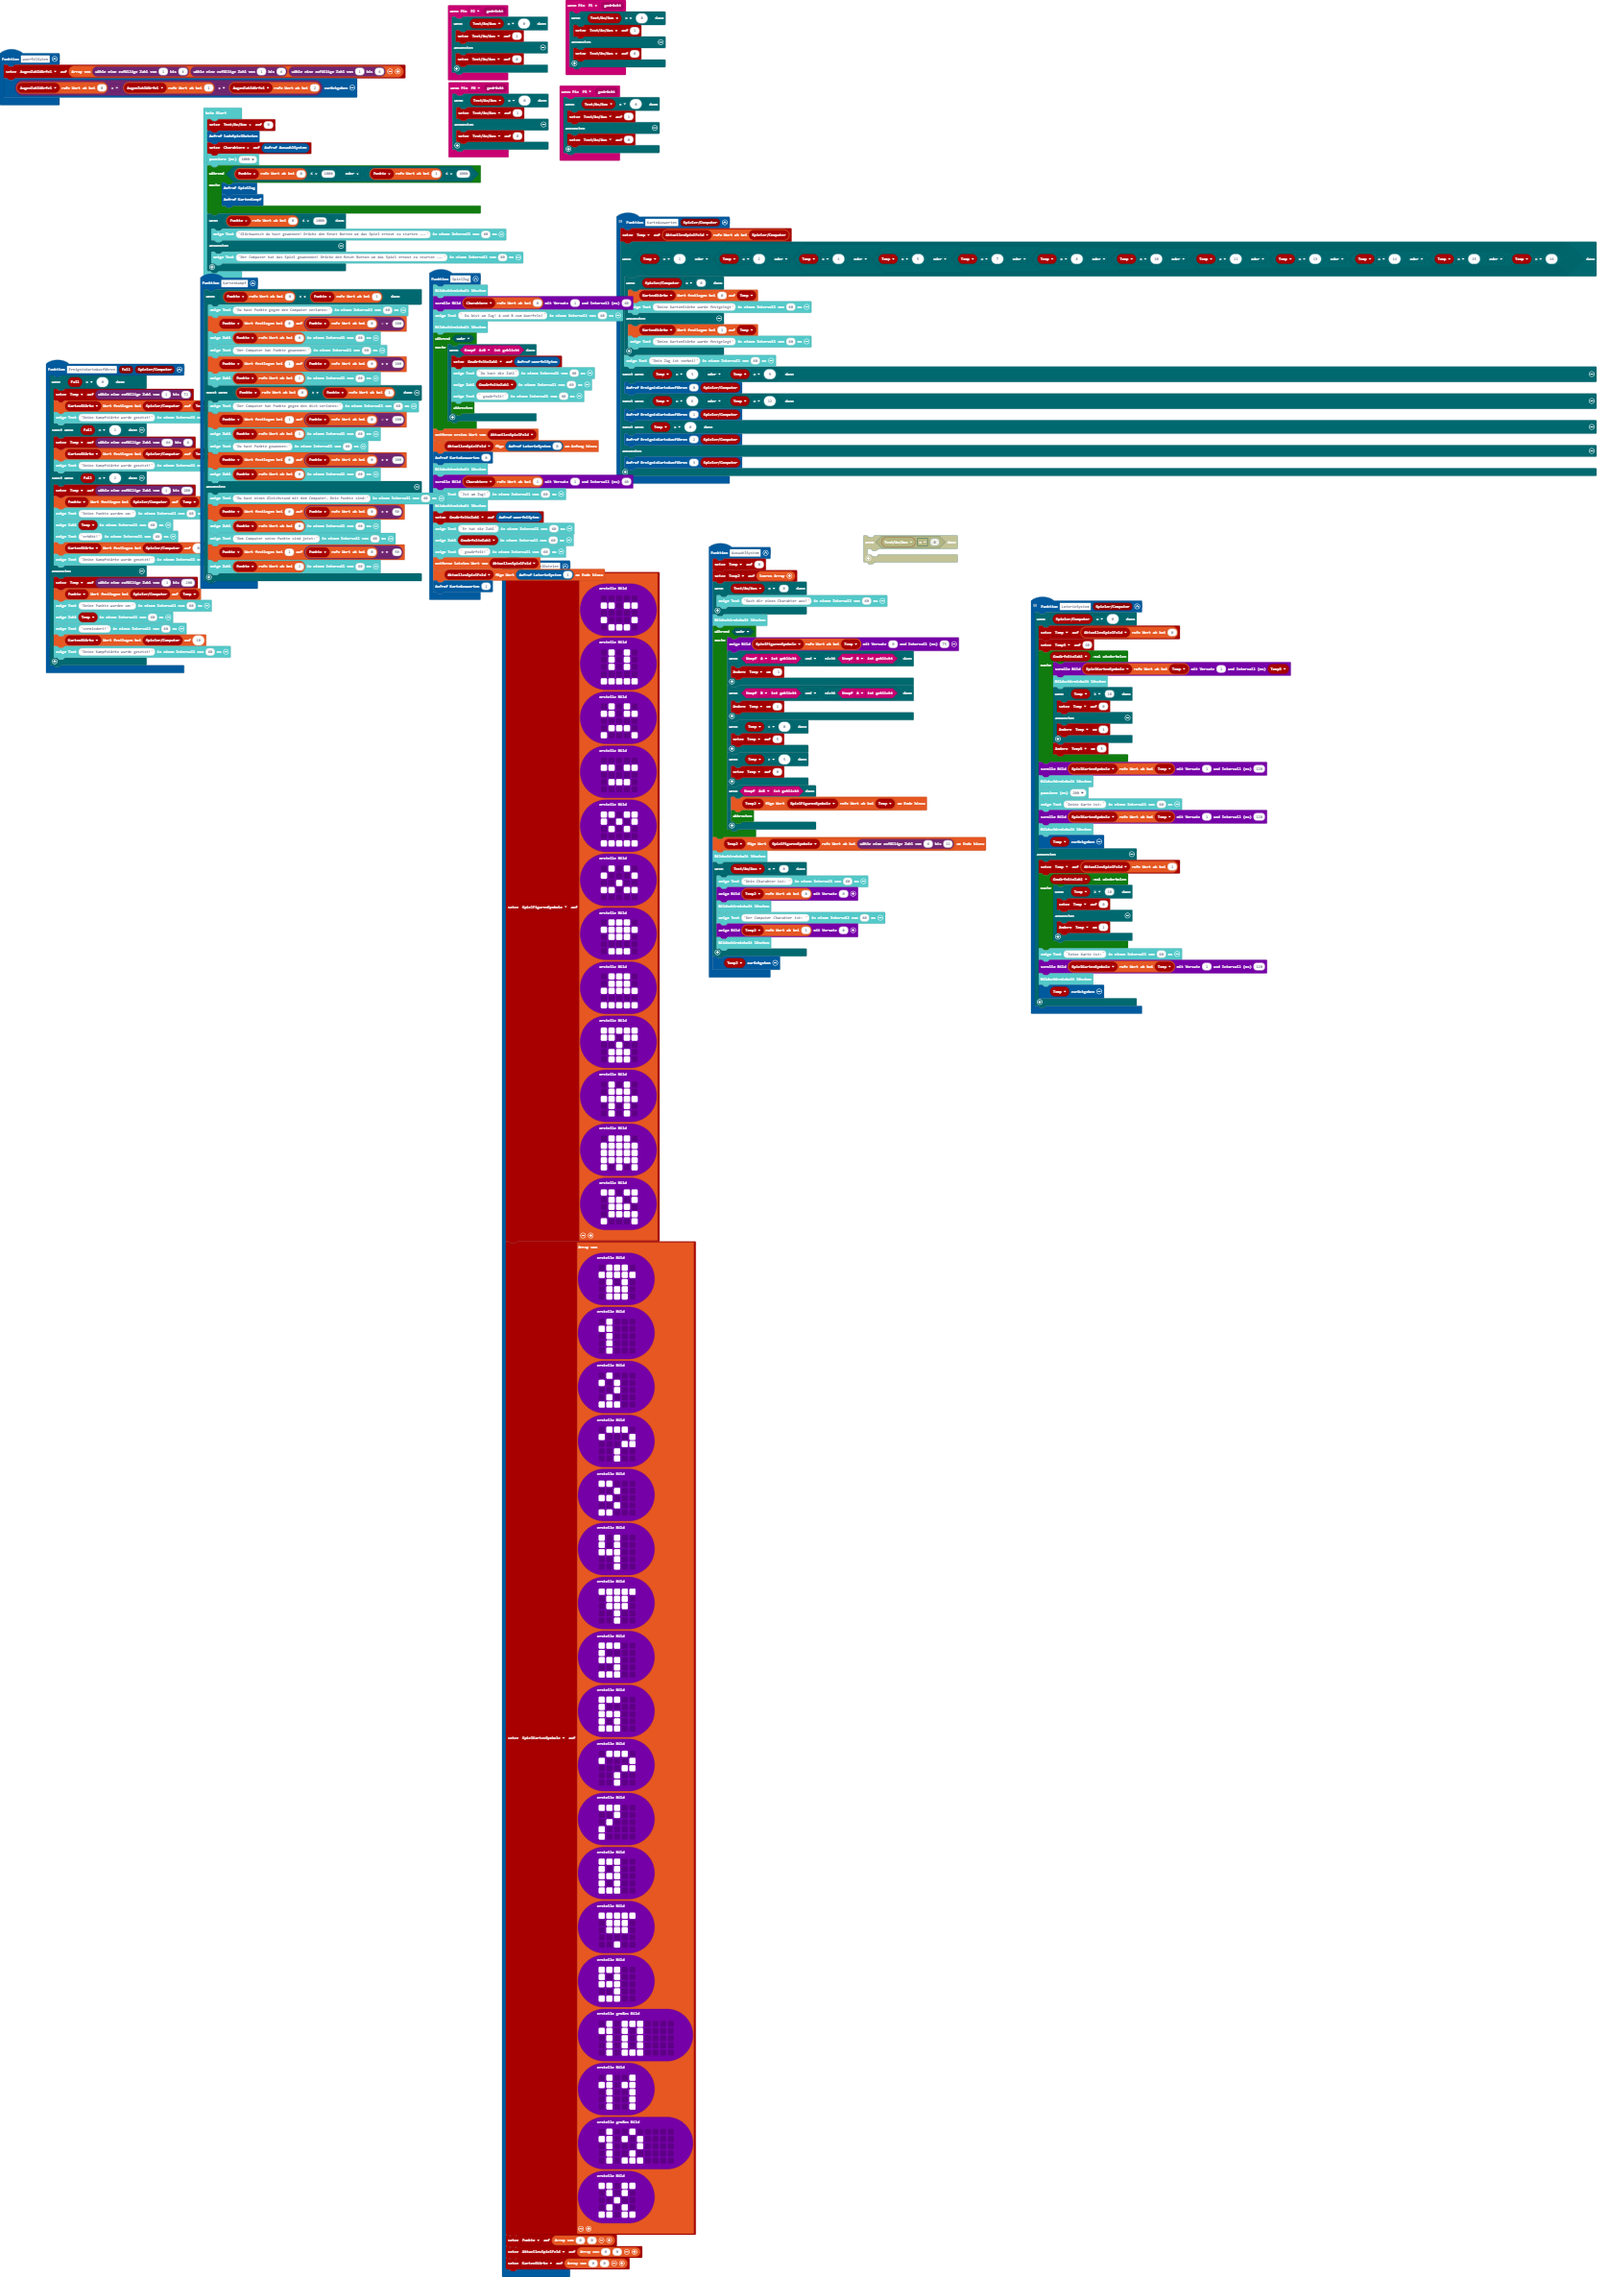
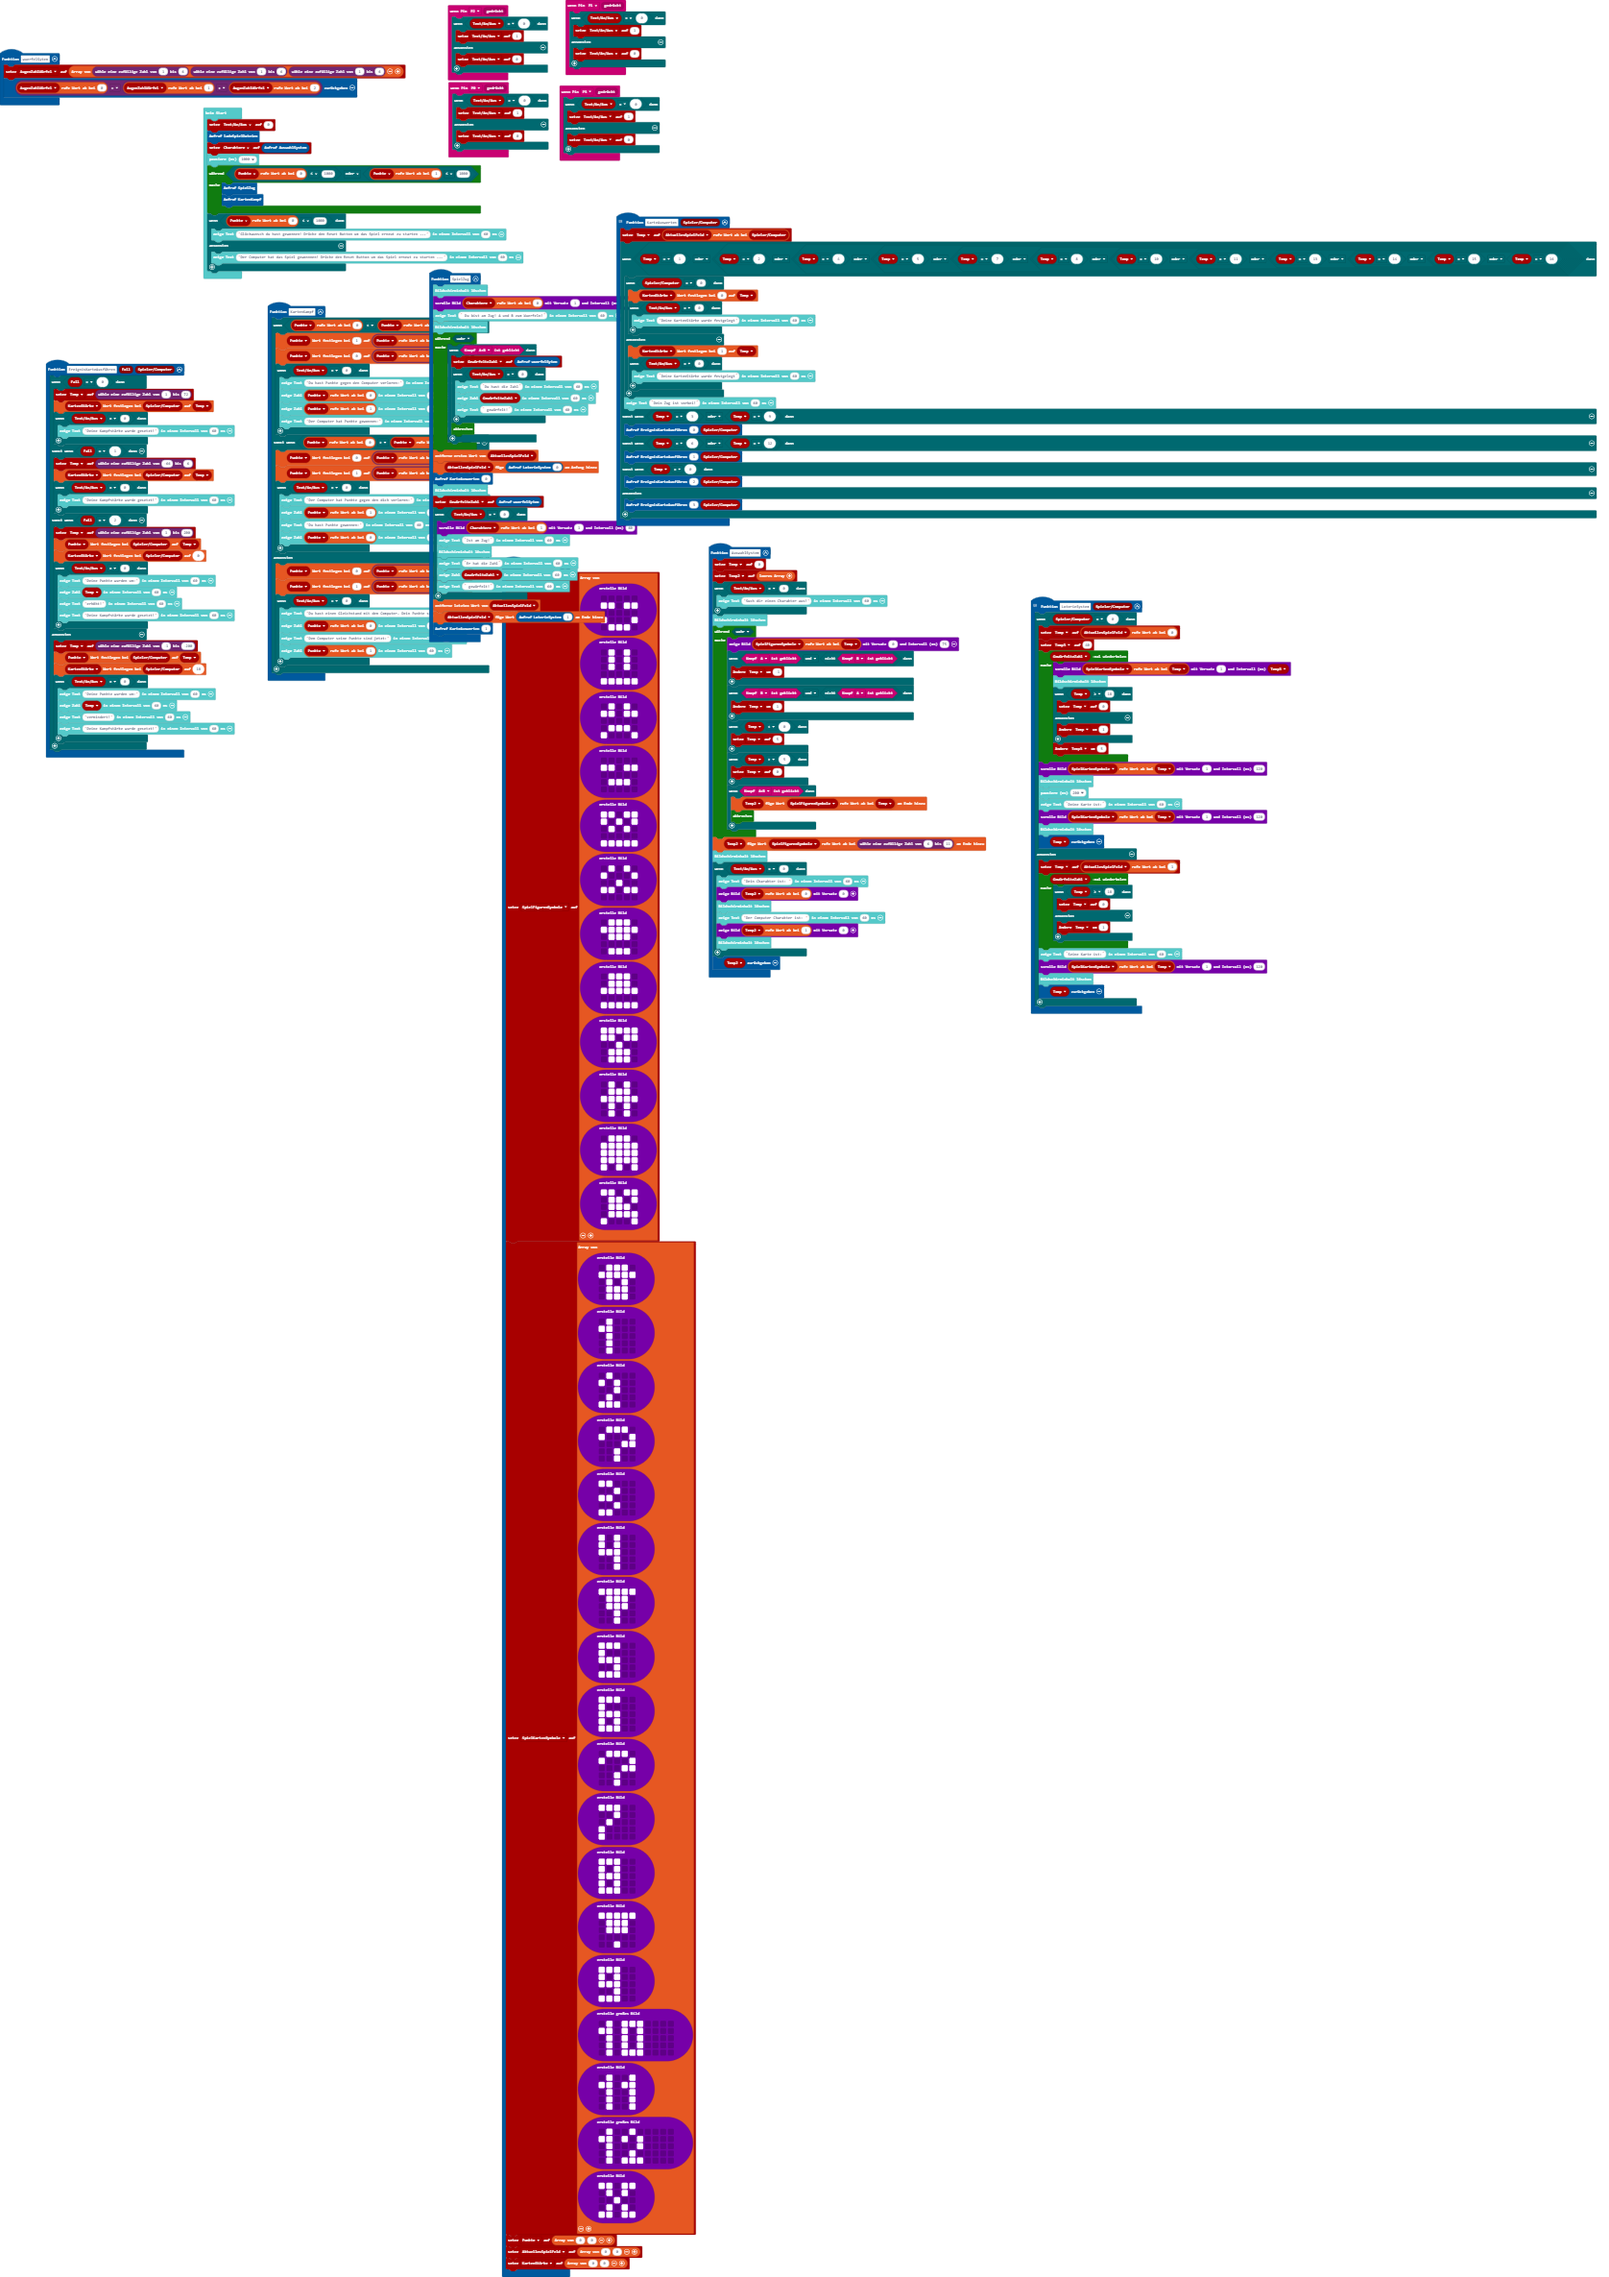
Aktualisiere main.blocks, main.ts

Changed region(s): [[0.031, 0.1248, 0.9928, 0.3433]]

diff --git a/main.ts b/main.ts
@@ -49,53 +49,67 @@ input.onPinTouchEvent(TouchPin.P1, input.buttonEventDown(), function () {
 })
 function KartenKampf () {
     if (Punkte[0] < Punkte[1]) {
-        basic.showString("Du hast Punkte gegen den Computer verloren:", 60)
-        Punkte[0] = Punkte[0] - 100
-        basic.showNumber(Punkte[0], 60)
-        basic.showString("Der Computer hat Punkte gewonnen:", 60)
         Punkte[1] = Punkte[0] + 100
-        basic.showNumber(Punkte[1], 60)
+        Punkte[0] = Punkte[0] - 100
+        if (TextAnAus == 0) {
+            basic.showString("Du hast Punkte gegen den Computer verloren:", 60)
+            basic.showNumber(Punkte[0], 60)
+            basic.showNumber(Punkte[1], 60)
+            basic.showString("Der Computer hat Punkte gewonnen:", 60)
+        }
     } else if (Punkte[0] > Punkte[1]) {
-        basic.showString("Der Computer hat Punkte gegen den dich verloren:", 60)
-        Punkte[1] = Punkte[0] - 100
-        basic.showNumber(Punkte[1], 60)
-        basic.showString("Du hast Punkte gewonnen:", 60)
         Punkte[0] = Punkte[0] + 100
-        basic.showNumber(Punkte[0], 60)
+        Punkte[1] = Punkte[0] - 100
+        if (TextAnAus == 0) {
+            basic.showString("Der Computer hat Punkte gegen den dich verloren:", 60)
+            basic.showNumber(Punkte[1], 60)
+            basic.showString("Du hast Punkte gewonnen:", 60)
+            basic.showNumber(Punkte[0], 60)
+        }
     } else {
-        basic.showString("Du hast einen Gleichstand mit dem Computer. Dein Punkte sind:", 60)
         Punkte[0] = Punkte[0] + 50
-        basic.showNumber(Punkte[0], 60)
-        basic.showString("Dem Computer seine Punkte sind jetzt:", 60)
         Punkte[1] = Punkte[0] + 50
-        basic.showNumber(Punkte[1], 60)
+        if (TextAnAus == 0) {
+            basic.showString("Du hast einen Gleichstand mit dem Computer. Dein Punkte sind:", 60)
+            basic.showNumber(Punkte[0], 60)
+            basic.showString("Dem Computer seine Punkte sind jetzt:", 60)
+            basic.showNumber(Punkte[1], 60)
+        }
     }
 }
 function EreignisKarteAusführen (Fall: number, SpielerComputer: number) {
     if (Fall == 0) {
         Temp = randint(1, 72)
         KartenStärke[SpielerComputer] = Temp
-        basic.showString("Deine Kampfstärke wurde gesetzt!", 60)
+        if (TextAnAus == 0) {
+            basic.showString("Deine Kampfstärke wurde gesetzt!", 60)
+        }
     } else if (Fall == 1) {
         Temp = randint(-66, 6)
         KartenStärke[SpielerComputer] = Temp
-        basic.showString("Deine Kampfstärke wurde gesetzt!", 60)
+        if (TextAnAus == 0) {
+            basic.showString("Deine Kampfstärke wurde gesetzt!", 60)
+        }
     } else if (Fall == 2) {
         Temp = randint(1, 200)
         Punkte[SpielerComputer] = Temp
-        basic.showString("Deine Punkte wurden um:", 60)
-        basic.showNumber(Temp, 60)
-        basic.showString("erhöht!", 60)
         KartenStärke[SpielerComputer] = 0
-        basic.showString("Deine Kampfstärke wurde gesetzt!", 60)
+        if (TextAnAus == 0) {
+            basic.showString("Deine Punkte wurden um:", 60)
+            basic.showNumber(Temp, 60)
+            basic.showString("erhöht!", 60)
+            basic.showString("Deine Kampfstärke wurde gesetzt!", 60)
+        }
     } else {
         Temp = randint(-1, -200)
         Punkte[SpielerComputer] = Temp
-        basic.showString("Deine Punkte wurden um:", 60)
-        basic.showNumber(Temp, 60)
-        basic.showString("vermindert!", 60)
         KartenStärke[SpielerComputer] = 18
-        basic.showString("Deine Kampfstärke wurde gesetzt!", 60)
+        if (TextAnAus == 0) {
+            basic.showString("Deine Punkte wurden um:", 60)
+            basic.showNumber(Temp, 60)
+            basic.showString("vermindert!", 60)
+            basic.showString("Deine Kampfstärke wurde gesetzt!", 60)
+        }
     }
 }
 function ladeSpielDateien () {
@@ -376,9 +390,11 @@ function SpielZug () {
     while (true) {
         if (input.buttonIsPressed(Button.AB)) {
             GewürfelteZahl = wuerfelSytem()
-            basic.showString("Du hast die Zahl", 60)
-            basic.showNumber(GewürfelteZahl, 60)
-            basic.showString(" gewürfelt!", 60)
+            if (TextAnAus == 0) {
+                basic.showString("Du hast die Zahl", 60)
+                basic.showNumber(GewürfelteZahl, 60)
+                basic.showString(" gewürfelt!", 60)
+            }
             break;
         }
     }
@@ -386,13 +402,15 @@ function SpielZug () {
     AktuellesSpielFeld.unshift(LoterieSystem(0))
     KarteAuswerten(0)
     basic.clearScreen()
-    Charaktere[1].scrollImage(1, 60)
-    basic.showString("Ist am Zug!", 60)
-    basic.clearScreen()
     GewürfelteZahl = wuerfelSytem()
-    basic.showString("Er hat die Zahl", 60)
-    basic.showNumber(GewürfelteZahl, 60)
-    basic.showString(" gewürfelt!", 60)
+    if (TextAnAus == 0) {
+        Charaktere[1].scrollImage(1, 60)
+        basic.showString("Ist am Zug!", 60)
+        basic.clearScreen()
+        basic.showString("Er hat die Zahl", 60)
+        basic.showNumber(GewürfelteZahl, 60)
+        basic.showString(" gewürfelt!", 60)
+    }
     AktuellesSpielFeld.pop()
     AktuellesSpielFeld.push(LoterieSystem(1))
     KarteAuswerten(1)
@@ -410,10 +428,14 @@ function KarteAuswerten (SpielerComputer: number) {
     if (Temp == 1 || (Temp == 2 || (Temp == 4 || (Temp == 5 || (Temp == 7 || (Temp == 8 || (Temp == 10 || (Temp == 11 || (Temp == 13 || (Temp == 14 || (Temp == 15 || Temp == 16))))))))))) {
         if (SpielerComputer == 0) {
             KartenStärke[0] = Temp
-            basic.showString("Deine KartenStärke wurde festgelegt", 60)
+            if (TextAnAus == 0) {
+                basic.showString("Deine KartenStärke wurde festgelegt", 60)
+            }
         } else {
             KartenStärke[1] = Temp
-            basic.showString("Deine KartenStärke wurde festgelegt", 60)
+            if (TextAnAus == 0) {
+                basic.showString("Deine KartenStärke wurde festgelegt", 60)
+            }
         }
         basic.showString("Dein Zug ist vorbei!", 60)
     } else if (Temp == 3 || Temp == 9) {
